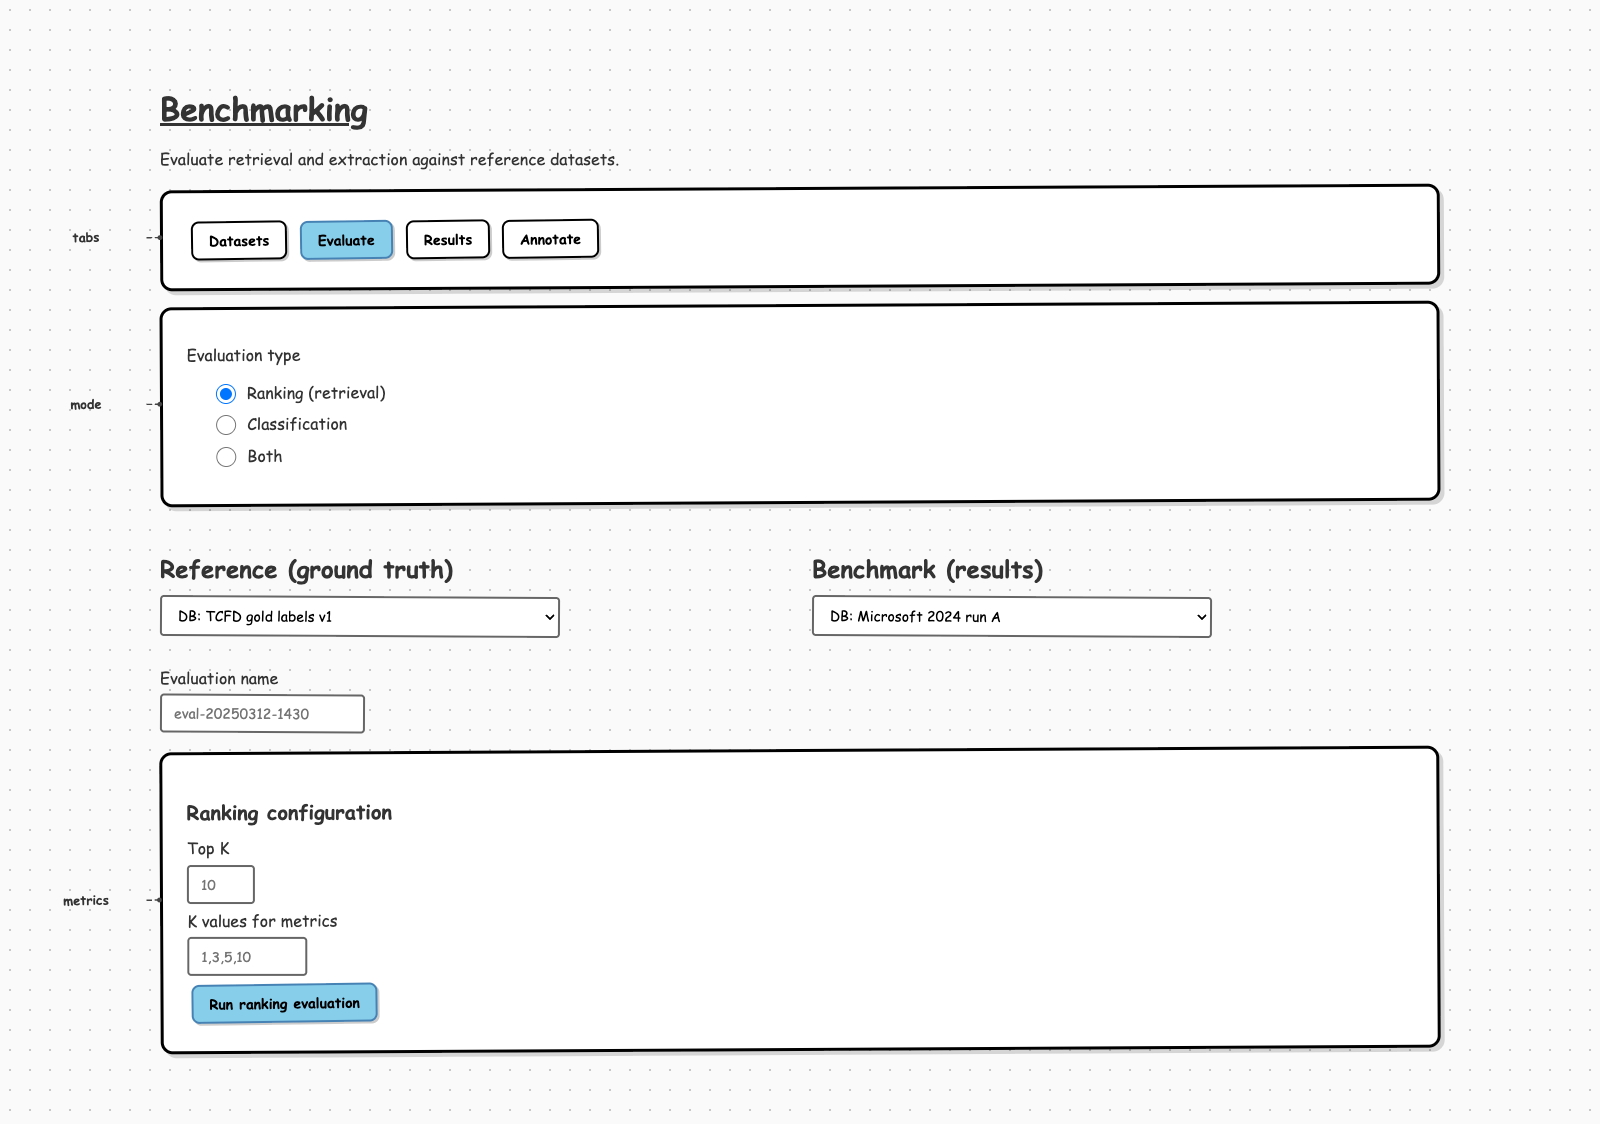
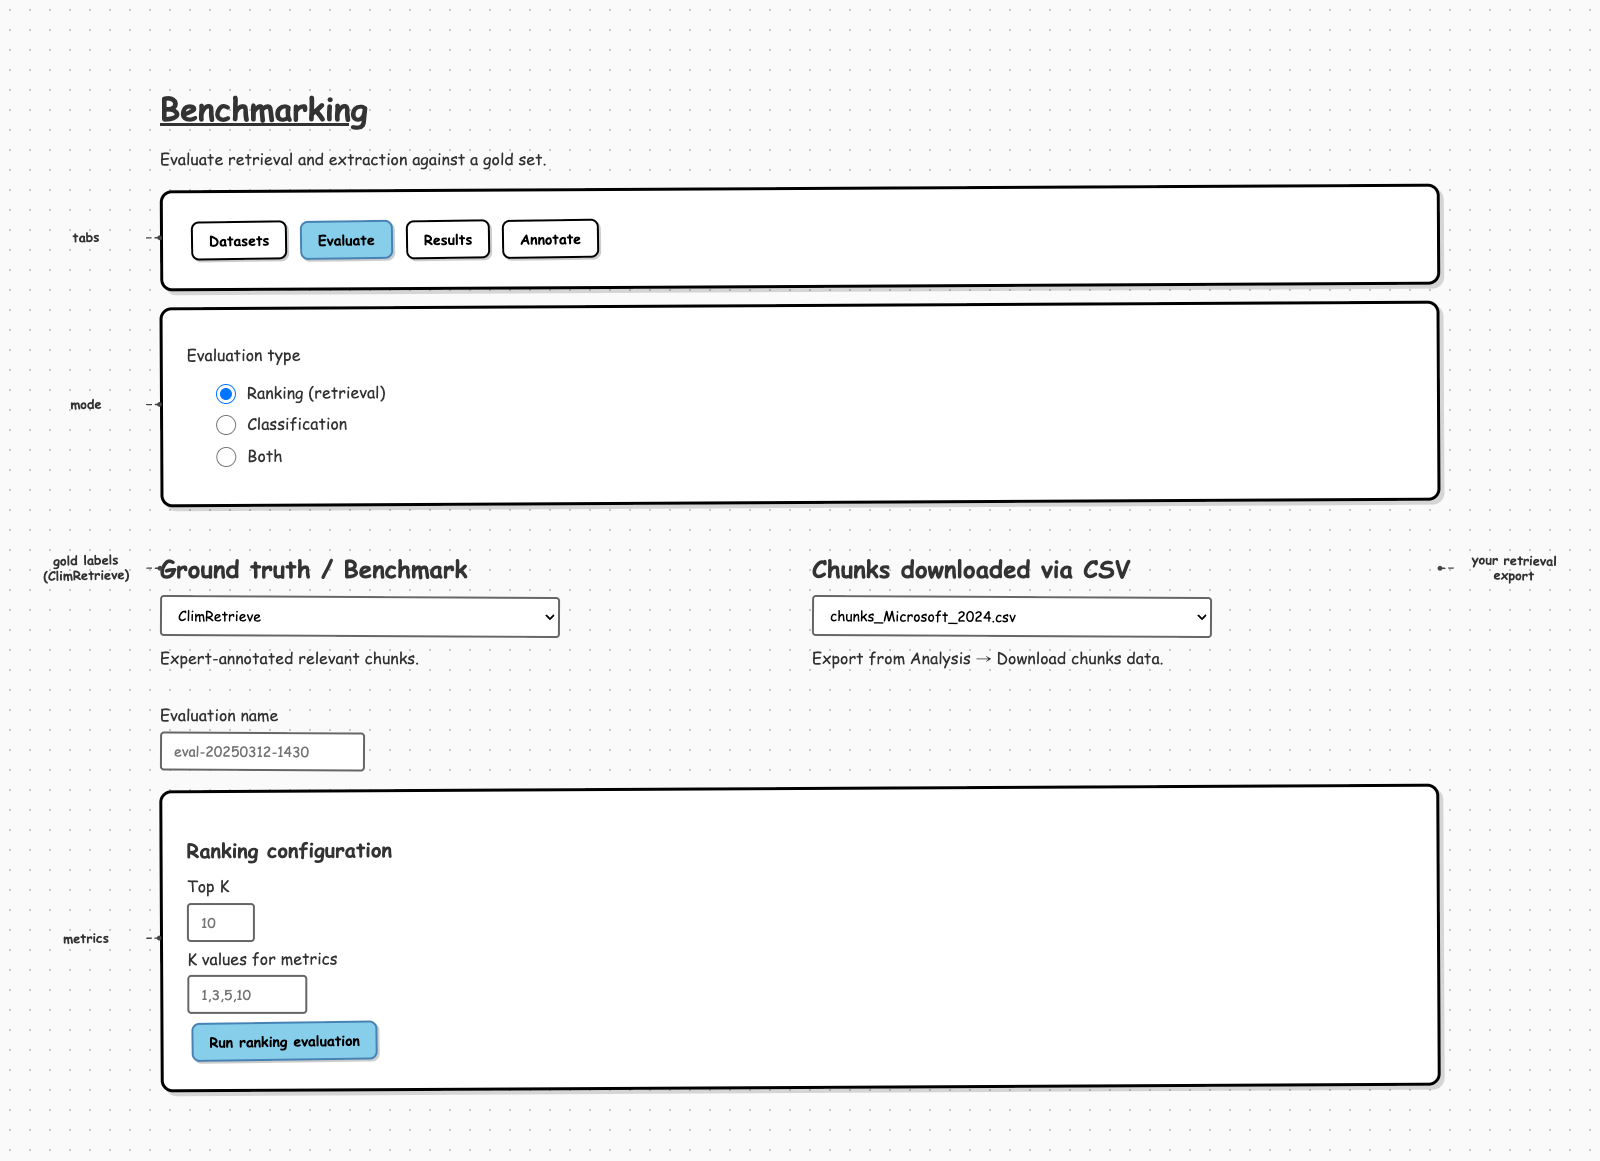
Show ClimRetrieve gold vs exported chunks on Evaluate
- Left: Ground truth / Benchmark as one ClimRetrieve control
- Right: chunks CSV from Analysis download

diff --git a/docs/wireframes/out/benchmarking.html b/docs/wireframes/out/benchmarking.html
@@ -753,7 +753,7 @@ body.wmd-root {
 <body class="wmd-root wmd-sketch wmd-has-callouts">
   <div class="wmd-annotated">
   <h1 class="wmd-h1">Benchmarking</h1>
-<p class="wmd-paragraph">Evaluate retrieval and extraction against reference datasets.</p>
+<p class="wmd-paragraph">Evaluate retrieval and extraction against a gold set.</p>
 <div id="tabs" class="wmd-container-card">
   <div class="wmd-container-button-group">
   <button class="wmd-button">Datasets</button>
@@ -781,20 +781,22 @@ body.wmd-root {
 </div>
 <div class="wmd-grid wmd-start wmd-grid-2" style="--grid-columns: 2">
   <div class="wmd-grid-item">
-    <h3 class="wmd-h3">Reference (ground truth)</h3>
+    <h3 id="gt" class="wmd-h3">Ground truth / Benchmark</h3>
     <select class="wmd-select">
-    <option value="" disabled selected>DB: TCFD gold labels v1</option>
-    <option value="DB: TCFD gold labels v1">DB: TCFD gold labels v1</option>
-    <option value="Uploaded: microsoft_gt_aligned.csv">Uploaded: microsoft_gt_aligned.csv</option>
+    <option value="" disabled selected>ClimRetrieve</option>
+    <option value="ClimRetrieve">ClimRetrieve</option>
+    <option value="ClimRetrieve report-level">ClimRetrieve report-level</option>
   </select>
+    <p class="wmd-paragraph">Expert-annotated relevant chunks.</p>
   </div>
   <div class="wmd-grid-item">
-    <h3 class="wmd-h3">Benchmark (results)</h3>
+    <h3 id="chunks" class="wmd-h3">Chunks downloaded via CSV</h3>
     <select class="wmd-select">
-    <option value="" disabled selected>DB: Microsoft 2024 run A</option>
-    <option value="DB: Microsoft 2024 run A">DB: Microsoft 2024 run A</option>
-    <option value="Uploaded: microsoft_bm_aligned.csv">Uploaded: microsoft_bm_aligned.csv</option>
+    <option value="" disabled selected>chunks_Microsoft_2024.csv</option>
+    <option value="chunks_Microsoft_2024.csv">chunks_Microsoft_2024.csv</option>
+    <option value="chunks_data.csv">chunks_data.csv</option>
   </select>
+    <p class="wmd-paragraph">Export from Analysis → Download chunks data.</p>
   </div>
 </div>
 <div class="wmd-container-form-group">
@@ -815,6 +817,10 @@ body.wmd-root {
 </div>
   <aside class="wmd-callout wmd-callout-left" data-callout-for="tabs" data-callout-side="left"><p class="wmd-paragraph">tabs</p></aside>
 <aside class="wmd-callout wmd-callout-left" data-callout-for="mode" data-callout-side="left"><p class="wmd-paragraph">mode</p></aside>
+<aside class="wmd-callout wmd-callout-left" data-callout-for="gt" data-callout-side="left"><p class="wmd-paragraph">gold labels
+(ClimRetrieve)</p></aside>
+<aside class="wmd-callout wmd-callout-right" data-callout-for="chunks" data-callout-side="right"><p class="wmd-paragraph">your retrieval
+export</p></aside>
 <aside class="wmd-callout wmd-callout-left" data-callout-for="metrics" data-callout-side="left"><p class="wmd-paragraph">metrics</p></aside>
   <svg class="wmd-callout-leaders" aria-hidden="true"></svg>
 </div>

diff --git a/docs/wireframes/pages/benchmarking.md b/docs/wireframes/pages/benchmarking.md
@@ -1,5 +1,5 @@
 # Benchmarking
-Evaluate retrieval and extraction against reference datasets.
+Evaluate retrieval and extraction against a gold set.
 
 ::: card {#tabs}
 [Datasets] [Evaluate]* [Results] [Annotate]
@@ -24,16 +24,30 @@ mode
 
 ::: grid-2 {.start}
 
-### Reference (ground truth)
-[DB: TCFD gold labels v1___________v]
-- DB: TCFD gold labels v1
-- Uploaded: microsoft_gt_aligned.csv
+### Ground truth / Benchmark {#gt}
+[ClimRetrieve___________v]
+- ClimRetrieve
+- ClimRetrieve report-level
 
-### Benchmark (results)
-[DB: Microsoft 2024 run A___________v]
-- DB: Microsoft 2024 run A
-- Uploaded: microsoft_bm_aligned.csv
+Expert-annotated relevant chunks.
 
+### Chunks downloaded via CSV {#chunks}
+[chunks_Microsoft_2024.csv___________v]
+- chunks_Microsoft_2024.csv
+- chunks_data.csv
+
+Export from Analysis → Download chunks data.
+
+:::
+
+::: callout {for:gt side:left}
+gold labels
+(ClimRetrieve)
+:::
+
+::: callout {for:chunks side:right}
+your retrieval
+export
 :::
 
 Evaluation name
